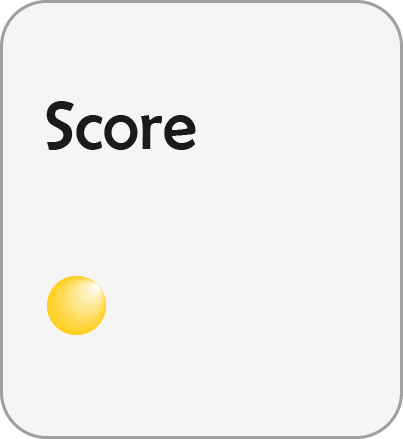
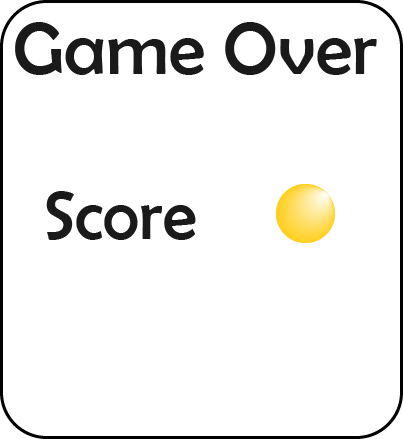
more fixes

diff --git a/core/src/huds/MainMenuButtons.java b/core/src/huds/MainMenuButtons.java
@@ -1,15 +1,19 @@
 package huds;
 
 import com.badlogic.gdx.Gdx;
+import com.badlogic.gdx.graphics.Color;
 import com.badlogic.gdx.graphics.OrthographicCamera;
 import com.badlogic.gdx.graphics.Texture;
+import com.badlogic.gdx.graphics.g2d.BitmapFont;
 import com.badlogic.gdx.graphics.g2d.Sprite;
+import com.badlogic.gdx.graphics.g2d.freetype.FreeTypeFontGenerator;
 import com.badlogic.gdx.scenes.scene2d.Actor;
 import com.badlogic.gdx.scenes.scene2d.Stage;
 import com.badlogic.gdx.scenes.scene2d.actions.Actions;
 import com.badlogic.gdx.scenes.scene2d.actions.RunnableAction;
 import com.badlogic.gdx.scenes.scene2d.actions.SequenceAction;
 import com.badlogic.gdx.scenes.scene2d.ui.ImageButton;
+import com.badlogic.gdx.scenes.scene2d.ui.Label;
 import com.badlogic.gdx.scenes.scene2d.utils.ChangeListener;
 import com.badlogic.gdx.scenes.scene2d.utils.SpriteDrawable;
 import com.badlogic.gdx.utils.Align;
@@ -30,6 +34,8 @@ public class MainMenuButtons {
     private Stage stage;
     private Viewport gameViewport;
 
+    private Label titleLabel;
+
     private ImageButton playBtn;
     private ImageButton statisticsBtn;
     private ImageButton optionsBtn;
@@ -49,6 +55,7 @@ public class MainMenuButtons {
         createAndPositionButton();
         addAllListeners();
 
+        stage.addActor(titleLabel);
         stage.addActor(playBtn);
         stage.addActor(statisticsBtn);
         stage.addActor(optionsBtn);
@@ -57,11 +64,25 @@ public class MainMenuButtons {
     }
 
     void createAndPositionButton() {
+
+        FreeTypeFontGenerator generator = new FreeTypeFontGenerator(Gdx.files.internal("Fonts/Berlin Sans FB Regular.ttf"));
+
+        FreeTypeFontGenerator.FreeTypeFontParameter parameterTitle =
+                new FreeTypeFontGenerator.FreeTypeFontParameter();
+
+        parameterTitle.size = 120;
+
+        BitmapFont titleFont = generator.generateFont(parameterTitle);
+
+        titleLabel = new Label("DipIn", new Label.LabelStyle(titleFont, Color.BLACK));
+
         playBtn = new ImageButton(new SpriteDrawable(new Sprite(new Texture("UI/Buttons/Main Menu/Start.png"))));
         statisticsBtn = new ImageButton(new SpriteDrawable(new Sprite(new Texture("UI/Buttons/Main Menu/Statistics.png"))));
         optionsBtn = new ImageButton(new SpriteDrawable(new Sprite(new Texture("UI/Buttons/Main Menu/Settings.png"))));
         quitBtn = new ImageButton(new SpriteDrawable(new Sprite(new Texture("UI/Buttons/Main Menu/Quit.png"))));
         musicBtn = new ImageButton(new SpriteDrawable(new Sprite(new Texture("UI/Buttons/Main Menu/Music_On.png"))));
+
+        titleLabel.setPosition(GameInfo.WIDTH / 2f, GameInfo.HEIGHT / 2f + 240, Align.center);
 
         playBtn.setPosition(GameInfo.WIDTH / 2f, GameInfo.HEIGHT / 2f + 50, Align.center);
         statisticsBtn.setPosition(GameInfo.WIDTH / 2f, GameInfo.HEIGHT / 2f - 50, Align.center);

diff --git a/core/src/platforms/PlatformsController.java b/core/src/platforms/PlatformsController.java
@@ -29,8 +29,8 @@ public class PlatformsController {
 
     public PlatformsController(World world) {
         this.world = world;
-        minX = GameInfo.WIDTH / 2f - 110;
-        maxX = GameInfo.WIDTH / 2f + 110;
+        minX = GameInfo.WIDTH / 2f - 120;
+        maxX = GameInfo.WIDTH / 2f + 120;
         createPlatforms();
         positionPlatforms(true);
     }
@@ -113,10 +113,10 @@ public class PlatformsController {
                             }
                         } else {
 
-                            Collectable coin = new Collectable(world, "Life");
+                            Collectable coin = new Collectable(world, "Coin");
 
                             coin.setCollectablePosition(p.getX(),
-                                    p.getY() + 40);
+                                    p.getY() + 60);
                             collectables.add(coin);
                         }
                     }
@@ -129,10 +129,10 @@ public class PlatformsController {
 
         for (Platform p : platforms) {
             if (p.getDrawLeft()) {
-                batch.draw(p, p.getX() - p.getWidth() / 2f - 20,
+                batch.draw(p, p.getX() - p.getWidth() / 2f,
                         p.getY() - p.getHeight() / 2f);
             } else {
-                batch.draw(p, p.getX() - p.getWidth() / 2f + 10,
+                batch.draw(p, p.getX() - p.getWidth() / 2f,
                         p.getY() - p.getHeight() / 2f);
             }
         }
@@ -158,7 +158,7 @@ public class PlatformsController {
 
     public void createAndArrangeNewPlatforms() {
         for (int i = 0; i < platforms.size; i++) {
-            if ((platforms.get(i).getY() - GameInfo.HEIGHT / 2f - 10) > cameraY) {
+            if ((platforms.get(i).getY() - GameInfo.HEIGHT / 2 - 15f) > cameraY) {
                 platforms.get(i).getTexture().dispose();
                 platforms.removeIndex(i);
             }
@@ -172,7 +172,7 @@ public class PlatformsController {
 
     public void removeOffScreenCollectables() {
         for (int i = 0; i < collectables.size; i++) {
-            if ((collectables.get(i).getY() - GameInfo.HEIGHT / 2f -15) > cameraY) {
+            if ((collectables.get(i).getY() - GameInfo.HEIGHT / 2f - 15f) > cameraY) {
                 collectables.get(i).getTexture().dispose();
                 collectables.removeIndex(i);
             }
@@ -192,7 +192,7 @@ public class PlatformsController {
     // platform appearing on the screen:
     public Player positionThePlayer(Player player) {
         player = new Player(world, platforms.get(0).getX(),
-                platforms.get(0).getY() + 100);
+                platforms.get(0).getY() + 70);
         return player;
     }
 }

diff --git a/core/src/huds/UIHud.java b/core/src/huds/UIHud.java
@@ -51,7 +51,6 @@ public class UIHud {
             GameManager.getInstance().lifeScore = 2;
             GameManager.getInstance().coinScore = 0;
             GameManager.getInstance().score = 0;
-
         }
 
         createLabels();
@@ -75,7 +74,7 @@ public class UIHud {
 
         scoreTable.add(scoreImg).padRight(10).padTop(10);
         scoreTable.row();
-        scoreTable.add(scoreLabel).padRight(20).padTop(15);
+        scoreTable.add(scoreLabel);
 
         stage.addActor(lifeAndCoinTable);
         stage.addActor(scoreTable);
@@ -127,7 +126,6 @@ public class UIHud {
                 }
             }
         });
-
     }
 
     void createPausePanel() {
@@ -186,25 +184,24 @@ public class UIHud {
 
         BitmapFont font = generator.generateFont(parameter);
 
-        Label endScore = new Label((": " + GameManager.getInstance().score),
+        Label endScore = new Label(String.valueOf(GameManager.getInstance().score),
                 new Label.LabelStyle(font, Color.BLACK));
 
-        Label endCoinScore = new Label(("x " + GameManager.getInstance().coinScore),
+        Label endCoinScore = new Label(String.valueOf(GameManager.getInstance().coinScore),
                 new Label.LabelStyle(font, Color.BLACK));
 
         gameOverPanel.setPosition(GameInfo.WIDTH / 2f,
                 GameInfo.HEIGHT / 2f, Align.center);
 
-        endScore.setPosition(GameInfo.WIDTH / 2f,
-                GameInfo.HEIGHT / 2f + 55);
+        endScore.setPosition(GameInfo.WIDTH / 2f - 110f,
+                GameInfo.HEIGHT / 2f - 100f);
 
-        endCoinScore.setPosition(GameInfo.WIDTH / 2f - 30,
-                GameInfo.HEIGHT / 2f - 85, Align.center);
+        endCoinScore.setPosition(GameInfo.WIDTH / 2f + 105f,
+                GameInfo.HEIGHT / 2f - 60f, Align.center);
 
         stage.addActor(gameOverPanel);
         stage.addActor(endScore);
         stage.addActor(endCoinScore);
-
     }
 
     public void incrementScore(int score) {

diff --git a/core/src/player/Player.java b/core/src/player/Player.java
@@ -39,7 +39,7 @@ public class Player extends Sprite {
         body.setFixedRotation(true);
 
         PolygonShape shape = new PolygonShape();
-        shape.setAsBox((getWidth() / 2f - 10) / GameInfo.PPM,
+        shape.setAsBox((getWidth() / 2f) / GameInfo.PPM,
                 (getHeight() / 2f) / GameInfo.PPM);
 
         FixtureDef fixtureDef = new FixtureDef();
@@ -60,19 +60,22 @@ public class Player extends Sprite {
     }
 
     public void drawPlayer(SpriteBatch batch) {
-        batch.draw(this, getX() + getWidth() / 2f - 50,
+        batch.draw(this, getX() + getWidth() / 2f - 60f,
                 getY() - getHeight() / 2f);
     }
 
     public void updatePlayer() {
 
-        if (body.getLinearVelocity().x > 0) {
-            setPosition(body.getPosition().x * GameInfo.PPM,
-                    body.getPosition().y * GameInfo.PPM);
-        } else if (body.getLinearVelocity().x < 0) {
-            setPosition((body.getPosition().x - 0.3f) * GameInfo.PPM,
-                    body.getPosition().y * GameInfo.PPM);
-        }
+        setPosition(body.getPosition().x * GameInfo.PPM,
+                body.getPosition().y * GameInfo.PPM);
+
+//        if (body.getLinearVelocity().x > 0) {
+//            setPosition(body.getPosition().x * GameInfo.PPM,
+//                    body.getPosition().y * GameInfo.PPM);
+//        } else if (body.getLinearVelocity().x < 0) {
+//            setPosition(body.getPosition().x * GameInfo.PPM,
+//                    body.getPosition().y * GameInfo.PPM);
+//        }
     }
 
     public void setDead(boolean isDead) {

diff --git a/core/src/collectables/Collectable.java b/core/src/collectables/Collectable.java
@@ -30,17 +30,18 @@ public class Collectable extends Sprite {
         BodyDef bodyDef = new BodyDef();
         bodyDef.type = BodyDef.BodyType.StaticBody;
 
-        bodyDef.position.set((getX() - getWidth() / 2f) / GameInfo.PPM,
+        bodyDef.position.set((getX() - getWidth() / 2f - 20f) / GameInfo.PPM,
                 (getY() - getHeight() / 2f) / GameInfo.PPM);
 
         body = world.createBody(bodyDef);
 
         PolygonShape shape = new PolygonShape();
-        shape.setAsBox((getWidth() / 2f) / GameInfo.PPM, (getHeight() / 2f) / GameInfo.PPM);
+        shape.setAsBox((getWidth() / 2f) / GameInfo.PPM,
+                (getHeight() / 2f) / GameInfo.PPM);
 
         FixtureDef fixtureDef = new FixtureDef();
         fixtureDef.shape = shape;
-        fixtureDef.filter.maskBits = GameInfo.DEFAULT | GameInfo.COLLECTABLE;
+        fixtureDef.filter.categoryBits = GameInfo.DEFAULT | GameInfo.COLLECTABLE;
         fixtureDef.isSensor = true;
 
         fixture = body.createFixture(fixtureDef);
@@ -56,7 +57,7 @@ public class Collectable extends Sprite {
 
     public void updateCollectable() {
         setPosition(body.getPosition().x * GameInfo.PPM,
-                body.getPosition().y * GameInfo.PPM);
+                (body.getPosition().y)* GameInfo.PPM);
     }
 
     public void changeFilter() {

diff --git a/core/src/huds/OptionsButtons.java b/core/src/huds/OptionsButtons.java
@@ -34,7 +34,9 @@ public class OptionsButtons {
     private ImageButton easy, medium, hard, backBtn;
     private Image sign;
 
-    private float signYPos = 20f;
+    private float signXPos = 66f;
+    private float signYPos = 12f;
+
 
     public OptionsButtons(GameMain game) {
         this.game = game;
@@ -125,17 +127,17 @@ public class OptionsButtons {
     void positionTheSign() {
 
         if (GameManager.getInstance().gameData.isEasyDifficulty()) {
-            sign.setPosition(GameInfo.WIDTH / 2f + 115, easy.getY() + signYPos,
+            sign.setPosition(GameInfo.WIDTH / 2f + signXPos, easy.getY() + signYPos,
                     Align.bottomLeft);
         }
 
         if (GameManager.getInstance().gameData.isMediumDifficulty()) {
-            sign.setPosition(GameInfo.WIDTH / 2f + 115, medium.getY() + signYPos,
+            sign.setPosition(GameInfo.WIDTH / 2f + signXPos, medium.getY() + signYPos,
                     Align.bottomLeft);
         }
 
         if (GameManager.getInstance().gameData.isHardDifficulty()) {
-            sign.setPosition(GameInfo.WIDTH / 2f + 115, hard.getY() + signYPos,
+            sign.setPosition(GameInfo.WIDTH / 2f + signXPos, hard.getY() + signYPos,
                     Align.bottomLeft);
         }
     }

diff --git a/core/src/helpers/GameManager.java b/core/src/helpers/GameManager.java
@@ -27,8 +27,8 @@ public class GameManager {
             gameData.setCoinHighScore(0);
 
             gameData.setEasyDifficulty(false);
-            gameData.setEasyDifficulty(true);
-            gameData.setEasyDifficulty(false);
+            gameData.setMediumDifficulty(true);
+            gameData.setHardDifficulty(false);
 
             gameData.setMusicOn(false);
 
@@ -40,7 +40,6 @@ public class GameManager {
 
     public void saveData() {
         if (gameData != null) {
-
             fileHandle.writeString(Base64Coder.encodeString(json.prettyPrint(gameData)), false);
         }
     }
@@ -54,9 +53,14 @@ public class GameManager {
         int oldHighScore = gameData.getHighScore();
         int oldCoinScore = gameData.getCoinHighScore();
 
-        if (oldCoinScore < score) {
+        if (oldHighScore < score) {
 
-            gameData.setCoinHighScore(score);
+            gameData.setHighScore(score);
+        }
+
+        if (oldCoinScore < coinScore) {
+
+            gameData.setCoinHighScore(coinScore);
         }
     }
 

diff --git a/core/src/huds/StatisticsButtons.java b/core/src/huds/StatisticsButtons.java
@@ -79,8 +79,8 @@ public class StatisticsButtons {
         titleLabel = new Label("Statistics", new Label.LabelStyle(titleFont, Color.BLACK));
 
         scoreLabelText = new Label("High score", new Label.LabelStyle(scoreFontText, Color.BLACK));
-        scoreLabel = new Label(String.valueOf(GameManager.getInstance().gameData.getCoinHighScore()), new Label.LabelStyle(scoreFont, Color.BLACK));
-        coinCounterLabel = new Label("x " + GameManager.getInstance().gameData.getHighScore(), new Label.LabelStyle(coinFont, Color.BLACK));
+        scoreLabel = new Label(String.valueOf(GameManager.getInstance().gameData.getHighScore()), new Label.LabelStyle(scoreFont, Color.BLACK));
+        coinCounterLabel = new Label("x " + GameManager.getInstance().gameData.getCoinHighScore(), new Label.LabelStyle(coinFont, Color.BLACK));
 
         backBtn.setPosition(17, 17, Align.bottomLeft);
 

diff --git a/core/src/platforms/Platform.java b/core/src/platforms/Platform.java
@@ -29,13 +29,13 @@ public class Platform extends Sprite {
         BodyDef bodyDef = new BodyDef();
         bodyDef.type = BodyDef.BodyType.StaticBody;
 
-        bodyDef.position.set((getX() - 45f) / GameInfo.PPM,
+        bodyDef.position.set(getX() / GameInfo.PPM,
                 getY() / GameInfo.PPM);
 
         body = world.createBody(bodyDef);
 
         PolygonShape shape = new PolygonShape();
-        shape.setAsBox((getWidth() / 2.4f) / GameInfo.PPM,
+        shape.setAsBox((getWidth() / 2f) / GameInfo.PPM,
                 (getHeight() / 2f) / GameInfo.PPM);
 
         FixtureDef fixtureDef = new FixtureDef();

diff --git a/core/src/helpers/GameInfo.java b/core/src/helpers/GameInfo.java
@@ -5,7 +5,7 @@ public class GameInfo {
     public static final int WIDTH = 480;
     public static final int HEIGHT = 800;
 
-    public static final int PPM = 100;
+    public static final float PPM = 100;
 
     public static final short DEFAULT = 1;
     public static final short PLAYER = 2;

diff --git a/core/src/scenes/Gameplay.java b/core/src/scenes/Gameplay.java
@@ -286,7 +286,6 @@ public class Gameplay implements Screen, ContactListener {
         player.updatePlayer();
 
         world.step(Gdx.graphics.getDeltaTime(), 6, 2);
-
     }
 
     @Override
